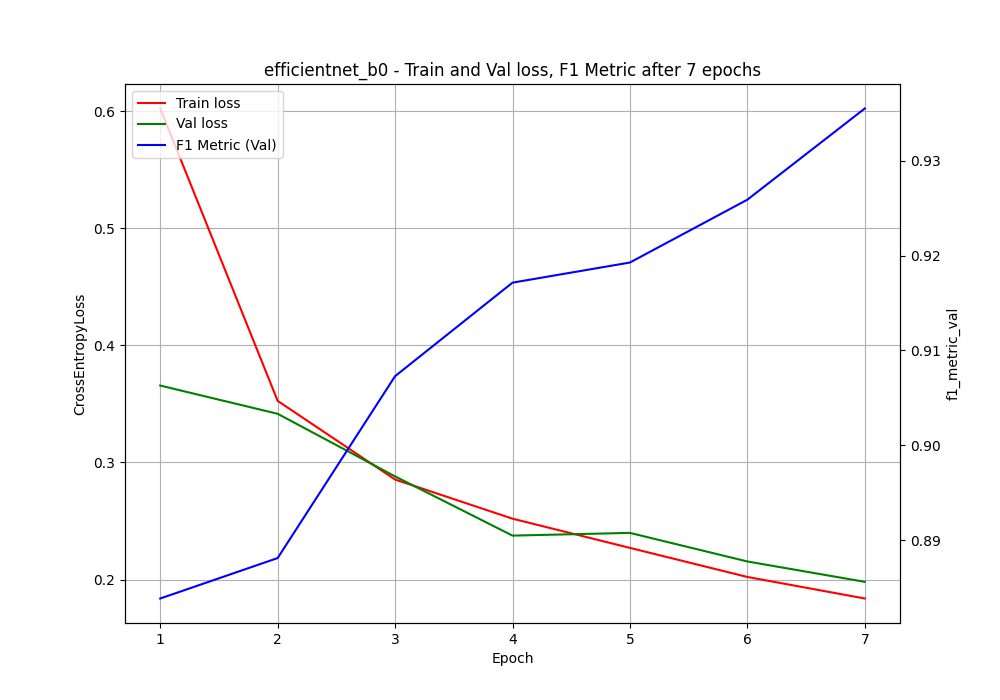
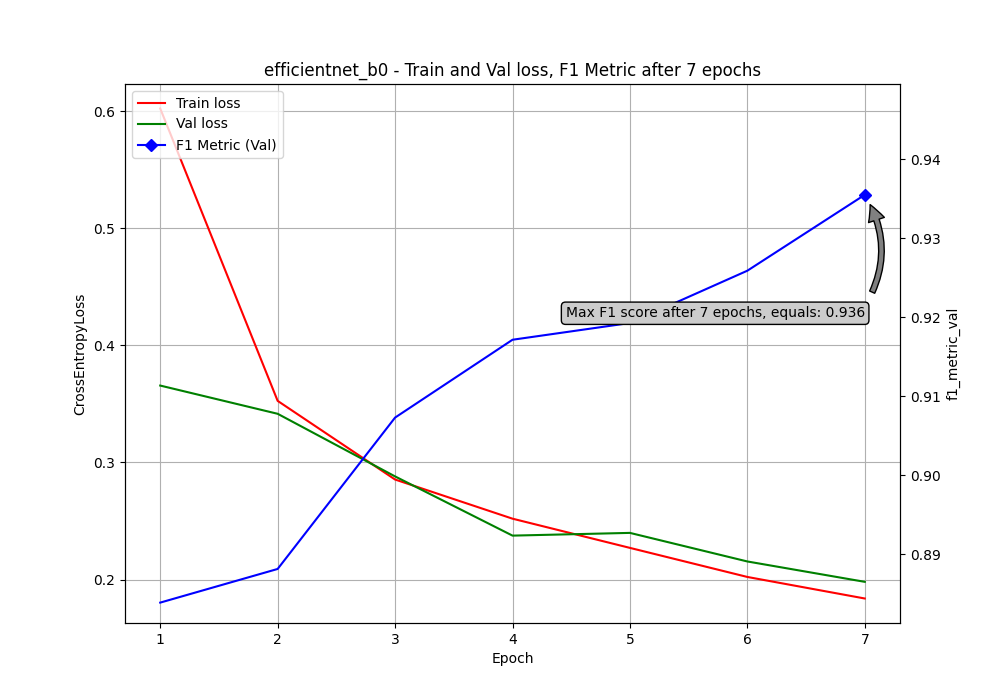
Plots fix

diff --git a/src/utils/models.py b/src/utils/models.py
@@ -120,7 +120,6 @@ class Models:
         f1_metric_val = checkpoint["f1_metric_val"]
 
         plt.figure(figsize=(10, 7))  # type: ignore
-        # marker_on = [losses_val.index(min(losses_val))]
 
         # Create the first plot with the left y-axis
         fig, ax1 = plt.subplots(figsize=(10, 7))  # type: ignore
@@ -141,36 +140,49 @@ class Models:
             # markevery=marker_on,
         )
 
-        # Annotate the minimum loss point
-        # bbox = dict(boxstyle="round", fc="0.8")
-        # ax1.annotate(  # type: ignore
-        #     text=f"Max F1 score after {f1_metric_val.index(max(f1_metric_val))+1} epochs, equals: {round(max(f1_metric_val), 2)}",
-        #     xy=(f1_metric_val.index(max(f1_metric_val)) + 1, max(f1_metric_val)),
-        #     xytext=(f1_metric_val.index(max(f1_metric_val)) + 1, max(f1_metric_val) + 0.05),
-        #     arrowprops=dict(facecolor="green", shrink=0.2),
-        #     bbox=bbox,
-        # )
-
         ax1.set_xlabel("Epoch")  # type: ignore
         ax1.set_ylabel("CrossEntropyLoss")  # type: ignore
         ax1.grid()  # type: ignore
 
         # Create the second y-axis for F1 metric
+        marker_on = [f1_metric_val.index(max(f1_metric_val))]
         ax2 = ax1.twinx()
         ax2.plot(  # type: ignore
             np.arange(1, len(f1_metric_val) + 1),  # type: ignore
             f1_metric_val,
-            color="blue",
+            "-bD",
             label="F1 Metric (Val)",
+            markevery=marker_on,
         )
         ax2.set_ylabel("f1_metric_val")  # type: ignore
+
+        # Annotate the minimum loss point
+        bbox = dict(boxstyle="round", fc="0.8")
+        ax2.annotate(  # type: ignore
+            text=f"Max F1 score after {f1_metric_val.index(max(f1_metric_val))+1} epochs, equals: {round(max(f1_metric_val), 3)}",
+            xy=(
+                f1_metric_val.index(max(f1_metric_val)) + 1,
+                max(f1_metric_val),
+            ),
+            xytext=(
+                f1_metric_val.index(max(f1_metric_val)) + 1,
+                max(f1_metric_val) - 0.015,
+            ),
+            arrowprops=dict(
+                facecolor="gray", shrink=0.1, connectionstyle="arc3,rad=0.3"
+            ),
+            bbox=bbox,
+            ha="right",
+            va="center",
+        )
 
         # Combine legends
         lines1, labels1 = ax1.get_legend_handles_labels()
         lines2, labels2 = ax2.get_legend_handles_labels()
         ax1.legend(lines1 + lines2, labels1 + labels2, loc="upper left")  # type: ignore
+        ax2.set_ylim(ymax=(max(f1_metric_val) * 1.015))
 
-        plt.title(
+        plt.title(  # type: ignore
             f"{name_of_the_net} - Train and Val loss, F1 Metric after {len(losses_train)} epochs"
         )  # type: ignore
         plt.savefig(str(self.root_folder) + f"/data/images/{name_of_the_net}.png")  # type: ignore
